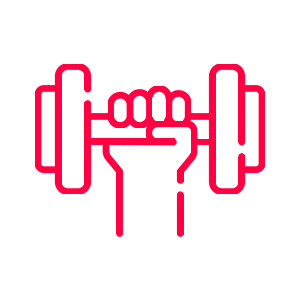
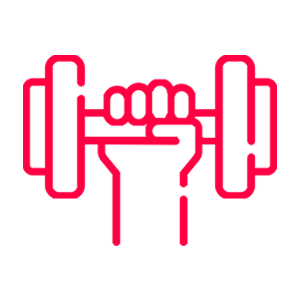
a

Changed region(s): [[0.06, 0.18, 0.93, 0.84]]

diff --git a/home.html b/home.html
@@ -54,7 +54,7 @@ X2Scale
 
     <ul>
         <li class="first"><div class="imagem" style="background-image: url('img4.png');"><a href="https://vazerk.com" target="_blank"></a></div><div class="info"><div class="title2"><a>Online Store / Vazerk</a></div><div class="text"><a>Here's my own online store that I made to sell sunglasses</a></div></div></li>
-        <li class="second"><div class="imagem" style="background-image: url('img1.png');"><a></a></div><div class="info"><div class="title2"><a>Gym Website</a></div><div class="text"><a>This is a fake website I made for a Gym Website. I made it do test my creativity and skills if I ever need to make a real one</a></div></div></li>
+        <li class="second"><div class="imagem" style="background-image: url('img5.png');"><a></a></div><div class="info"><div class="title2"><a>Gym Website</a></div><div class="text"><a>This is a fake website I made for a Gym Website. I made it do test my creativity and skills if I ever need to make a real one</a></div></div></li>
         <li class="third"><div class="imagem" style="background-image: url('img3.png'); background-position: center; background-size:contain; background-repeat: space;"><a></a></div><div class="info"><div class="title2"><a>Empty ):</a></div><div class="text"><a>I'll think about something to do here soon</a></div></div></li>
 
     </ul>
